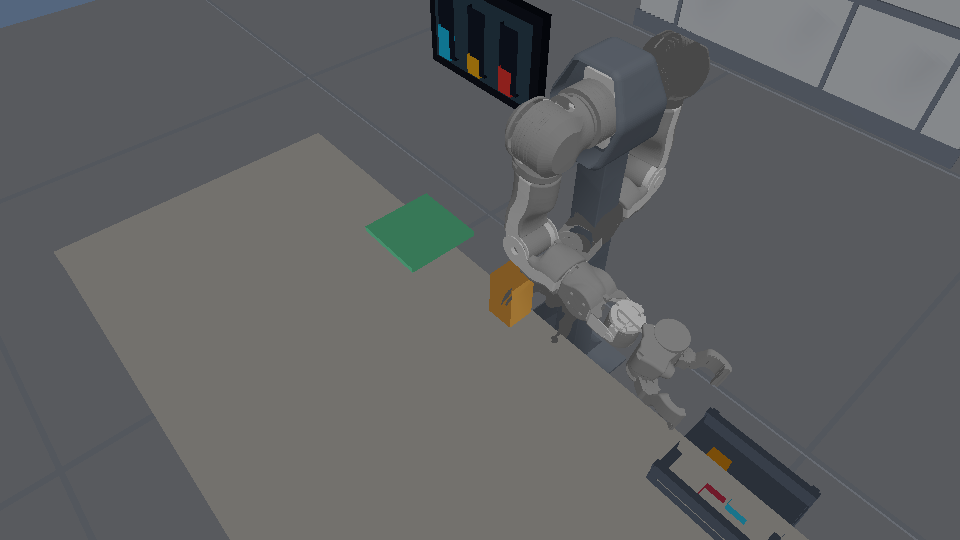
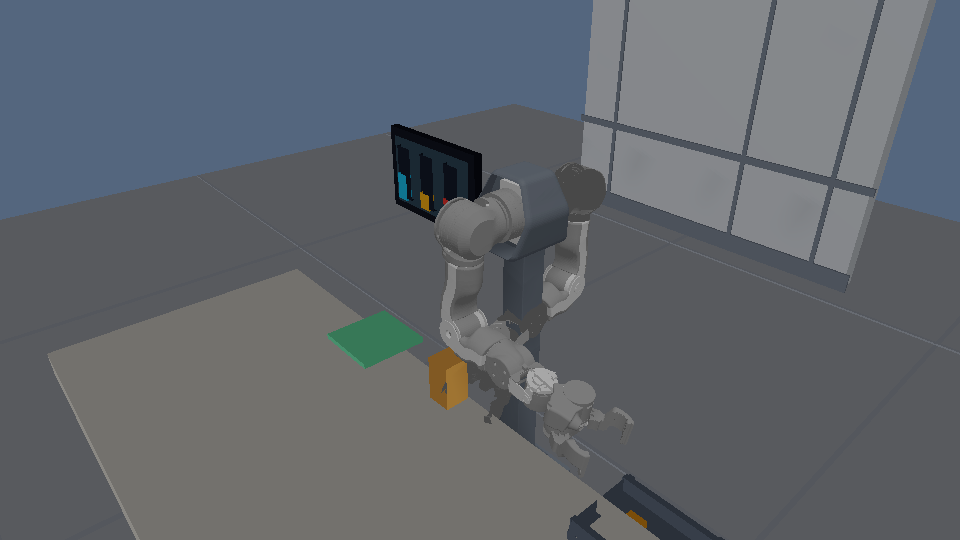
fix: frame the OpenArm showcase so the two arms read as two arms (#331)
* fix: frame the OpenArm showcase so the two arms read as two arms

The README hero looked like the robot was tangled in itself. It is not: the
rollout digest is 0x421678c484379c71 before and after this change, so the arms
never touch and never did. The camera was the problem.

`pitch_rad` was 0.75, and larger is nearer horizontal in this orbit, so that was
close to looking straight down. From overhead the arms flatten onto each other
however far apart they actually are, and the dark right arm sits against a dark
background while the pale left arm crosses in front of it — one tangled mass
rather than two limbs. A three-quarter view at 1.08 puts the near arm in front
of the far one instead of on top of it.

The other two numbers were framing. At 1.05 m the torso left the top of the
frame and the robot was pressed against the right edge with most of the image
empty table; 1.26 m fits it. The focus was (0.0, 0.50, 0.28) while the arms sit
at y = 0.698, so the camera was centred 0.20 m below and 0.25 m in front of the
subject — the robot was off to one side of its own showcase. (0.0, 0.60, 0.12)
centres it between the shoulders and the work area.

An earlier attempt to fix this is recorded in the comment above `CAMERA`: yaw
was pushed round toward side-on for exactly this reason, and it was not enough
on its own because the pitch was doing the damage.

Dynamics are untouched. `xtask ci-smoke media`: all three showcases replay to
their recorded digests.
[…]

diff --git a/examples/90_showcase_captures/openarm.rs b/examples/90_showcase_captures/openarm.rs
@@ -59,8 +59,14 @@ const JOINT_FEEDBACK_STREAM: StreamId = StreamId::new(9_090);
 const CAMERA: CameraEvidence = CameraEvidence {
     fov_y_rad: std::f64::consts::FRAC_PI_4,
     yaw_rad: 0.85,
-    pitch_rad: 0.75,
-    distance_m: 1.05,
+    // Larger pitch is nearer horizontal here. 0.75 looked down steeply enough
+    // to flatten the arms onto each other however far apart they actually are;
+    // a three-quarter view keeps the near arm in front of the far one rather
+    // than on top of it.
+    pitch_rad: 1.08,
+    // 1.05 m framed the torso out of the top and pushed the robot against the
+    // right edge, leaving most of the image empty table.
+    distance_m: 1.26,
 };
 
 /// Name of the dynamic block the right arm picks up and the left arm places.
@@ -406,7 +412,10 @@ pub fn run(repo_root: &Path, capture: bool) -> Result<ShowcaseMetadata> {
             ENVIRONMENT_ID,
             &first.frames,
             CameraOrbit {
-                focus: Vec3::new(0.0, 0.50, 0.28),
+                // The arms sit at y = 0.698; focusing 0.20 m below them and
+                // 0.25 m along +z put the robot off to one side of its own
+                // showcase. Focus between the shoulders and the work area.
+                focus: Vec3::new(0.0, 0.60, 0.12),
                 yaw_rad: CAMERA.yaw_rad,
                 pitch_rad: CAMERA.pitch_rad,
                 distance_m: CAMERA.distance_m,
